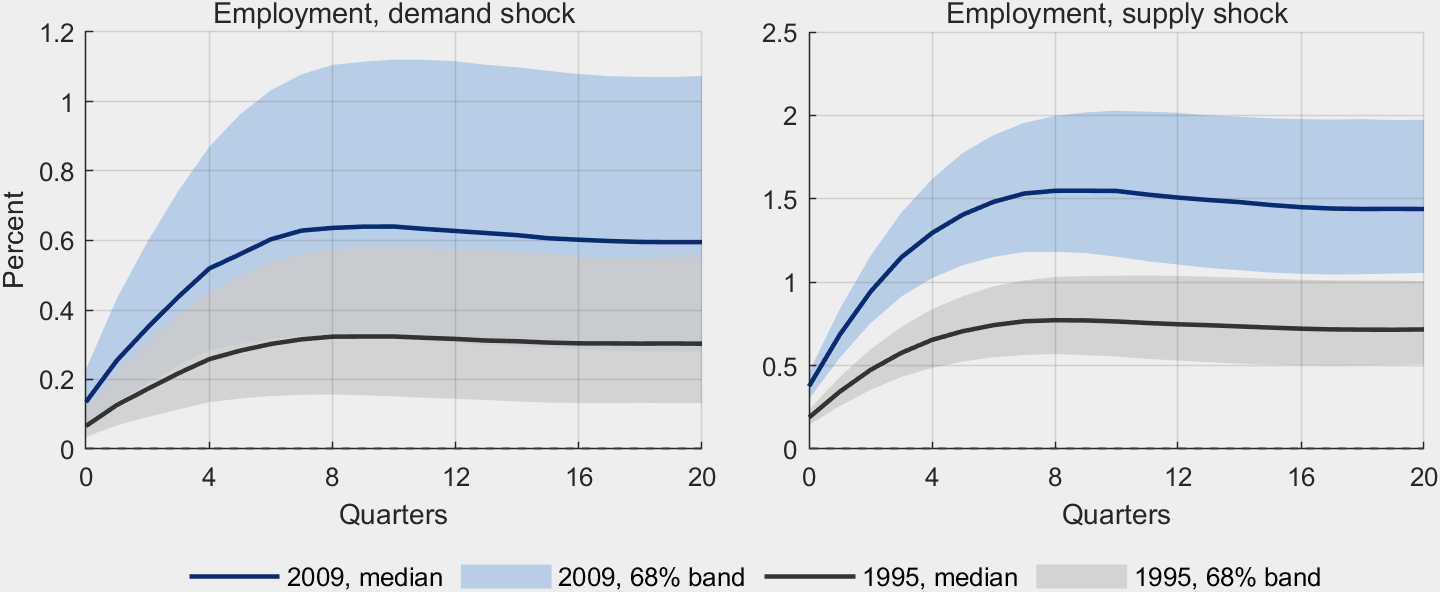
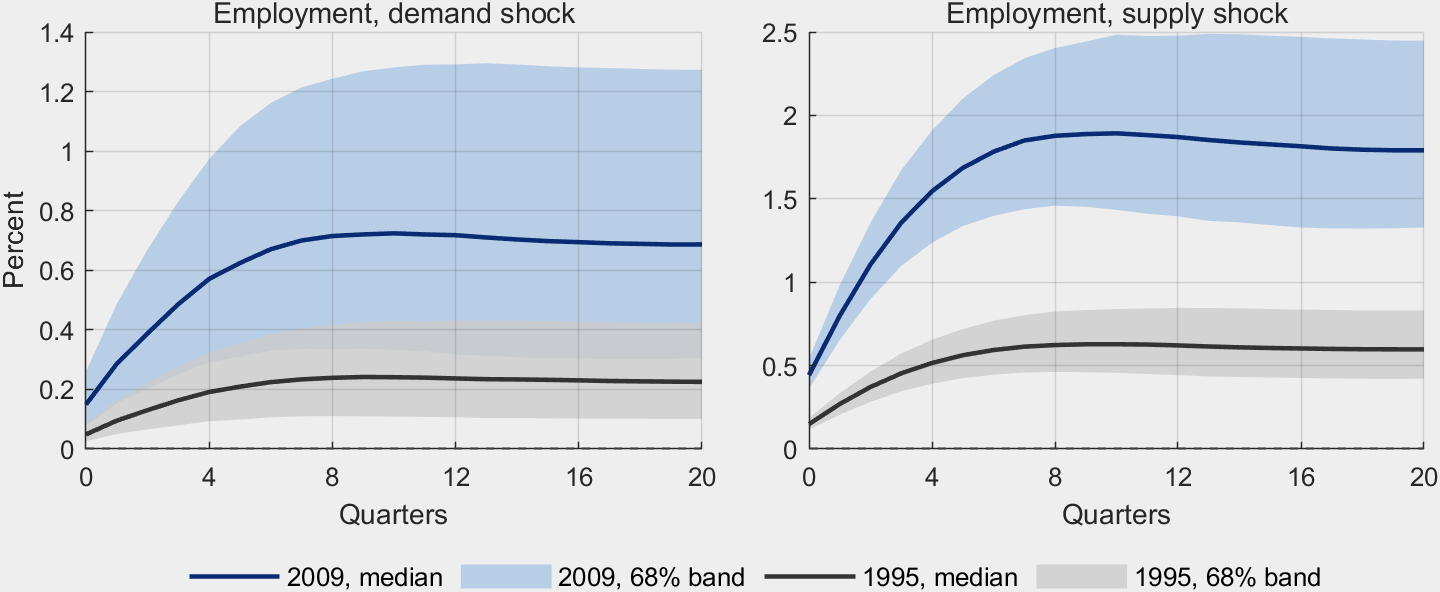
Blog BH15: re-estimate with corrected Kim-Shephard-Chib mixture means
Regenerate the seven figures and update every number that comes from the
stochastic-volatility model (volatility path, elasticities, decompositions,
responses, state dependence, residual diagnostics, convergence).

diff --git a/_posts/2026-10-03-stochastic-volatility-baumeister-hamilton.md b/_posts/2026-10-03-stochastic-volatility-baumeister-hamilton.md
@@ -1,6 +1,6 @@
 ---
 title: "Stochastic volatility in the Baumeister–Hamilton SVAR"
-excerpt: "Adding a single common stochastic-volatility factor to the Baumeister–Hamilton (2015) structural VAR keeps its conjugate structure, given the volatility path. It brings no new identification and, on current US labor-market data, no gain in precision, but it measures the volatility path and makes the size of shocks depend on the state of the economy."
+excerpt: "Adding a single common stochastic-volatility factor to the Baumeister–Hamilton (2015) structural VAR keeps its conjugate structure, given the volatility path. It brings no new identification and, on current US labor-market data, leaves the posterior medians close to the homoskedastic ones, but it measures the volatility path and makes the size of shocks depend on the state of the economy."
 date: 2026-10-03
 written: 2026-06-05
 mathjax: true
@@ -15,7 +15,7 @@ The BH15 baseline is homoskedastic, yet time-varying volatility is one of the mo
 
 - Conditional on the volatility path, the conjugacy at the heart of BH15 survives unchanged.
 - A single common factor brings no new identifying information: identification still rests entirely on the set-identified model.
-- On US labor-market data for 1970–2019 it leaves the estimates and their precision essentially unchanged. What it adds is the volatility path itself: a one-standard-deviation shock in 2009 moves employment about twice as much as one in 1995.
+- On US labor-market data for 1970–2019 it leaves the posterior medians close to the homoskedastic ones, with a somewhat tighter posterior for the demand slope and wider bands for the wage responses. What it adds is the volatility path itself: a one-standard-deviation shock in 2009 moves employment about three times as much as one in 1995.
 </div>
 
 ## The model
@@ -60,77 +60,77 @@ The Gibbs sampler has four blocks:
 
 1. $$A \mid Y, H$$: random-walk Metropolis on the marginal posterior above, computed with the standardized data, with the random walk on $$\log(-\beta)$$ and $$\log \alpha$$.
 2. $$(b_i, d_{ii}) \mid A, H, Y$$: direct Normal–inverse-gamma draws, equation by equation.
-3. $$H \mid A, B, D, Y$$: the volatility path, using the Kim, Shephard and Chib (1998) mixture approximation and forward-filtering backward-sampling.
+3. $$H \mid A, B, D, Y$$: the volatility path, using the Kim, Shephard and Chib (1998) mixture approximation to $$\log \chi^2_1$$, which matches its mean $$E[\log \chi^2_1] \approx -1.27$$, and forward-filtering backward-sampling.
 4. $$(\phi, \sigma^2) \mid H$$: conjugate draws.
 
 Setting $$\sigma^2 \to 0$$ freezes $$h_t = 0$$ and recovers the homoskedastic BH15 sampler. Two practical details matter. The levels of $$h_t$$ and $$d_{ii}$$ are not separately identified (only $$d_{ii}\, e^{h_t}$$ is), so I recentre $$h_t$$ to mean zero at every iteration. Otherwise it drifts as $$\phi$$ approaches one. And the random walk for $$A$$ runs on $$\log(-\beta)$$ and $$\log \alpha$$, with the corresponding Jacobian, and its covariance is adapted during the burn-in (Haario, Saksman and Tamminen, 2001). Every proposal then satisfies the sign restrictions, and the chain explores the long right tail of $$\alpha$$, which lies against the restriction at zero and which a random walk in levels visits only rarely.
 
 ## Application: the US labor market
 
-I use the BH15 bivariate labor-market model: quarterly growth of real hourly compensation in the nonfarm business sector and of total nonfarm payroll employment, eight lags. Labor demand and supply shocks are separated by the BH15 prior, with a downward-sloping demand curve ($$\beta < 0$$) and an upward-sloping supply curve ($$\alpha > 0$$), plus a long-run restriction. The data are the current FRED vintage (series COMPRNFB and PAYEMS) and the sample is 1970:Q1–2019:Q4. It stops before 2020 because the COVID quarters are outliers of about fifteen standard deviations, which a Gaussian volatility process can only absorb by inflating $$\sigma^2$$ (Carriero, Clark, Marcellino and Mertens, 2024). Each model is estimated with four chains of 110,000 iterations from dispersed starting points, discarding the first 10,000. The split $$\hat{R}$$ is 1.00 for both slopes and the effective sample size of $$\alpha$$ exceeds 23,000.
+I use the BH15 bivariate labor-market model: quarterly growth of real hourly compensation in the nonfarm business sector and of total nonfarm payroll employment, eight lags. Labor demand and supply shocks are separated by the BH15 prior, with a downward-sloping demand curve ($$\beta < 0$$) and an upward-sloping supply curve ($$\alpha > 0$$), plus a long-run restriction. The data are the current FRED vintage (series COMPRNFB and PAYEMS) and the sample is 1970:Q1–2019:Q4. It stops before 2020 because the COVID quarters are outliers of more than fifteen standard deviations, which a Gaussian volatility process can only absorb by inflating $$\sigma^2$$ (Carriero, Clark, Marcellino and Mertens, 2024). Each model is estimated with four chains of 110,000 iterations from dispersed starting points, discarding the first 10,000. The split $$\hat{R}$$ is 1.00 for both slopes and the effective sample size of $$\alpha$$ exceeds 20,000.
 
 **The volatility factor.** The common factor recovers the main episodes of US macroeconomic volatility: the Great Inflation, the Great Moderation and the Great Recession (Figure 1).
 
 <figure>
-  <a href="/assets/blog/bh15-sv/volatility-factor.png?v=3"><img src="/assets/blog/bh15-sv/volatility-factor.png?v=3" alt="Posterior median, 68% and 90% bands of the common volatility factor, 1970 to 2019"></a>
-  <figcaption><strong>Figure 1. Common volatility factor</strong> \(e^{h_t/2}\), posterior median with 68% and 90% bands. Peaks of 1.41 in 1974:Q4 and 1.33 in 1980:Q2, below one from 1984 with a trough of 0.71 in 1996, a peak of 1.45 in 2008:Q4 and a second trough of 0.75 in 2017. Posterior means: \(\phi \approx 0.92\), \(\sigma^2 \approx 0.04\).</figcaption>
+  <a href="/assets/blog/bh15-sv/volatility-factor.png?v=4"><img src="/assets/blog/bh15-sv/volatility-factor.png?v=4" alt="Posterior median, 68% and 90% bands of the common volatility factor, 1970 to 2019"></a>
+  <figcaption><strong>Figure 1. Common volatility factor</strong> \(e^{h_t/2}\), posterior median with 68% and 90% bands. Peaks of 1.76 in 1974:Q4 and 1.68 in 1980:Q2, mostly below one from 1984 with a trough of 0.57 in 1996, a peak of 1.87 in 2008:Q4 and a second trough of 0.60 in 2017. Posterior means: \(\phi \approx 0.92\), \(\sigma^2 \approx 0.08\).</figcaption>
 </figure>
 
-**Elasticities.** The posteriors of both slopes are almost the same in the two models (Figure 2). The supply slope is concentrated around 0.1, well below the centre of its prior, with a long right tail that is somewhat longer with stochastic volatility: the upper end of the 95% interval is 0.74 against 0.61. The posterior of the demand slope overlaps heavily with its prior, as in BH15.
+**Elasticities.** The posteriors of both slopes are close in the two models (Figure 2). The supply slope is concentrated around 0.1, well below the centre of its prior, with a long right tail: the upper end of the 95% interval is 0.63 with stochastic volatility and 0.61 without. The posterior of the demand slope overlaps heavily with its prior, as in BH15. With stochastic volatility it is somewhat tighter and slightly closer to zero, and its 95% interval is about 12% narrower.
 
 | | Demand slope $$\beta$$, no SV | Demand slope $$\beta$$, SV | Supply slope $$\alpha$$, no SV | Supply slope $$\alpha$$, SV |
 |---|---|---|---|---|
-| Median | −1.12 | −1.03 | 0.13 | 0.11 |
-| Std. deviation | 0.94 | 0.93 | 0.19 | 0.23 |
-| 95% interval | [−3.48, −0.22] | [−3.22, −0.15] | [0.03, 0.61] | [0.02, 0.74] |
+| Median | −1.12 | −0.99 | 0.13 | 0.10 |
+| Std. deviation | 0.94 | 0.80 | 0.19 | 0.21 |
+| 95% interval | [−3.48, −0.22] | [−3.02, −0.16] | [0.03, 0.61] | [0.02, 0.63] |
 
 <figure>
-  <a href="/assets/blog/bh15-sv/elasticity-posteriors.png?v=3"><img src="/assets/blog/bh15-sv/elasticity-posteriors.png?v=3" alt="Posterior histograms of the demand and supply slopes with and without stochastic volatility, and their prior"></a>
+  <a href="/assets/blog/bh15-sv/elasticity-posteriors.png?v=4"><img src="/assets/blog/bh15-sv/elasticity-posteriors.png?v=4" alt="Posterior histograms of the demand and supply slopes with and without stochastic volatility, and their prior"></a>
   <figcaption><strong>Figure 2. Posterior histograms of the elasticities</strong>, with and without stochastic volatility, and the prior density, the sign-truncated Student-t of BH15. Each histogram uses 400,000 draws.</figcaption>
 </figure>
 
-The variance-decomposition shares at a four-year horizon do not move either. Wage variance is about 88% demand-driven in both models and employment variance about 86% supply-driven with stochastic volatility and 84% without. The 68% bands are slightly wider with stochastic volatility.
+The variance-decomposition shares at a four-year horizon barely move. Wage variance is 89% demand-driven with stochastic volatility and 88% without, and employment variance is 87% supply-driven with stochastic volatility and 84% without. The 68% bands are about as wide in the two models.
 
-**Historical decomposition.** Figures 3 and 4 show the contribution of each shock to the eight-quarter growth of employment and wages in the model with stochastic volatility. Summing the contributions over an eight-quarter window, rather than cumulating them from 1970, keeps their uncertainty from accumulating over the sample. Supply shocks account for the falls in employment growth around every recession, with troughs of about −2.5 percentage points in 1975, −4.5 in 1983, −4.1 in 1992, −4.4 in 2002 and −8.1 at the end of 2009. Demand shocks move employment growth by at most about two points. The homoskedastic medians, not shown, differ from these by less than 0.8 points at any date, because the realized structural shocks are the same residuals in both models and the posteriors of $$A$$ and $$B$$ nearly coincide.
+**Historical decomposition.** Figures 3 and 4 show the contribution of each shock to the eight-quarter growth of employment and wages in the model with stochastic volatility. Summing the contributions over an eight-quarter window, rather than cumulating them from 1970, keeps their uncertainty from accumulating over the sample. Supply shocks account for the falls in employment growth around every recession, with troughs of about −2.8 percentage points in 1975, −4.8 in 1983, −4.3 in 1992, −4.7 in 2002 and −8.4 at the end of 2009. Demand shocks move employment growth by less than two points. The homoskedastic medians, not shown, differ from these by about one point at most, because the realized structural shocks are the same residuals in both models and the posteriors of $$A$$ and $$B$$ are close.
 
 <figure>
-  <a href="/assets/blog/bh15-sv/historical-decomposition.png?v=3"><img src="/assets/blog/bh15-sv/historical-decomposition.png?v=3" alt="Contributions of demand and supply shocks to eight-quarter employment growth, model with stochastic volatility"></a>
+  <a href="/assets/blog/bh15-sv/historical-decomposition.png?v=4"><img src="/assets/blog/bh15-sv/historical-decomposition.png?v=4" alt="Contributions of demand and supply shocks to eight-quarter employment growth, model with stochastic volatility"></a>
   <figcaption><strong>Figure 3. Historical decomposition of employment</strong>: contributions of demand shocks (left) and supply shocks (right) to eight-quarter employment growth, model with stochastic volatility. Posterior median with 68% and 90% bands.</figcaption>
 </figure>
 
-Wage growth is driven mostly by demand shocks, which subtract about 5.3 points in 1975 and 6.4 in 2009 and add about 5.0 in 1999 (Figure 4). Around recessions supply shocks push wages up, by about 3.1 points in 2009, the mirror image of their negative contribution to employment.
+Wage growth is driven mostly by demand shocks, which subtract about 5.7 points in 1975 and 6.7 in 2009 and add about 5.0 in 1999 (Figure 4). Around recessions supply shocks push wages up, by about 3.4 points in 2009, the mirror image of their negative contribution to employment.
 
 <figure>
-  <a href="/assets/blog/bh15-sv/historical-decomposition-wages.png?v=3"><img src="/assets/blog/bh15-sv/historical-decomposition-wages.png?v=3" alt="Contributions of demand and supply shocks to eight-quarter wage growth, model with stochastic volatility"></a>
+  <a href="/assets/blog/bh15-sv/historical-decomposition-wages.png?v=4"><img src="/assets/blog/bh15-sv/historical-decomposition-wages.png?v=4" alt="Contributions of demand and supply shocks to eight-quarter wage growth, model with stochastic volatility"></a>
   <figcaption><strong>Figure 4. Historical decomposition of wages</strong>: contributions of demand shocks (left) and supply shocks (right) to eight-quarter wage growth, model with stochastic volatility. Posterior median with 68% and 90% bands.</figcaption>
 </figure>
 
-**Unit responses.** On impact, the response to a unit structural shock depends only on $$A$$, so the two models differ as much as their posteriors of $$A$$ do: the impact response of wages to a demand shock is 0.87 with stochastic volatility and 0.78 without (Figure 5). At longer horizons the responses also depend on the lag coefficients, which stochastic volatility estimates by GLS. The shapes and signs are the same and the bands overlap. For wages the stochastic-volatility bands are wider.
+**Unit responses.** On impact, the response to a unit structural shock depends only on $$A$$, so the two models differ as much as their posteriors of $$A$$ do: the impact response of wages to a demand shock is 0.90 with stochastic volatility and 0.78 without (Figure 5). At longer horizons the responses also depend on the lag coefficients, which stochastic volatility estimates by GLS. The shapes and signs are the same and the bands overlap. For wages the stochastic-volatility bands are wider.
 
 <figure>
-  <a href="/assets/blog/bh15-sv/unit-irfs.png?v=3"><img src="/assets/blog/bh15-sv/unit-irfs.png?v=3" alt="Responses of wages and employment to unit demand and supply shocks, with and without stochastic volatility"></a>
+  <a href="/assets/blog/bh15-sv/unit-irfs.png?v=4"><img src="/assets/blog/bh15-sv/unit-irfs.png?v=4" alt="Responses of wages and employment to unit demand and supply shocks, with and without stochastic volatility"></a>
   <figcaption><strong>Figure 5. Responses to a unit structural shock</strong>, cumulated to levels, with and without stochastic volatility. Bands are 68% intervals.</figcaption>
 </figure>
 
-**State dependence.** A one-standard-deviation shock has size $$\sqrt{d_{ii}}\, e^{h_t/2}$$, so its impulse response is the unit response scaled by the volatility of the moment. A shock in 2009 moves employment about twice as much as one in 1995, the ratio of the median volatility factor in the two years, 1.45 against 0.72 (Figure 6). The homoskedastic model has a single one-standard-deviation response.
+**State dependence.** A one-standard-deviation shock has size $$\sqrt{d_{ii}}\, e^{h_t/2}$$, so its impulse response is the unit response scaled by the volatility of the moment. A shock in 2009 moves employment about three times as much as one in 1995, the ratio of the median volatility factor in the two years, 1.81 against 0.61 (Figure 6). The homoskedastic model has a single one-standard-deviation response.
 
 <figure>
-  <a href="/assets/blog/bh15-sv/one-sd-employment.png?v=3"><img src="/assets/blog/bh15-sv/one-sd-employment.png?v=3" alt="Employment responses to one-standard-deviation demand and supply shocks in 2009 and in 1995"></a>
+  <a href="/assets/blog/bh15-sv/one-sd-employment.png?v=4"><img src="/assets/blog/bh15-sv/one-sd-employment.png?v=4" alt="Employment responses to one-standard-deviation demand and supply shocks in 2009 and in 1995"></a>
   <figcaption><strong>Figure 6. One-standard-deviation responses of employment</strong> to a demand shock (left) and a supply shock (right), dated 2009 (high volatility) and 1995 (low volatility). Bands are 68% intervals.</figcaption>
 </figure>
 
-**Where the volatility lives.** Figure 7 shows the autocorrelations of the squared standardized shocks, computed draw by draw. Under homoskedasticity both squared shocks are autocorrelated at the first lag, the hallmark of volatility clustering, more strongly for demand: the posterior median of the first-order autocorrelation is 0.26 for demand and 0.22 for supply, and the Ljung–Box test rejects the null of no autocorrelation up to lag 20, with median p-values below 0.001 and about 0.01. After standardizing by the volatility factor the first-order autocorrelations fall to 0.14 and 0.17, at the edge of the $$\pm 1.96/\sqrt{T}$$ bounds, and the median p-values rise to 0.09 and 0.13, so the null is no longer rejected at the 5% level. The spikes at lags 11 and 12 of the demand shock fall inside the bounds. The common factor removes most of the clustering in both shocks but not all of it. More lags in the VAR would not change this: the shocks themselves, not squared, show no significant autocorrelation.
+**Where the volatility lives.** Figure 7 shows the autocorrelations of the squared standardized shocks, computed draw by draw. Under homoskedasticity both squared shocks are autocorrelated at the first lag, the hallmark of volatility clustering, more strongly for demand: the posterior median of the first-order autocorrelation is 0.26 for demand and 0.22 for supply, and the Ljung–Box test rejects the null of no autocorrelation up to lag 20, with median p-values below 0.001 and about 0.01. After standardizing by the volatility factor the first-order autocorrelations fall to 0.10 and 0.12, inside the $$\pm 1.96/\sqrt{T}$$ bounds, and the median p-values rise to 0.18 and 0.30, so the null is no longer rejected at the 5% level. The spikes at lags 11 and 12 of the demand shock also fall inside the bounds. With the common factor no posterior median of the autocorrelations or partial autocorrelations lies outside the bounds at any lag up to 20.
 
 <figure>
-  <a href="/assets/blog/bh15-sv/acf-squared-shocks.png?v=3"><img src="/assets/blog/bh15-sv/acf-squared-shocks.png?v=3" alt="Autocorrelation and partial autocorrelation of the squared demand and supply shocks, with and without stochastic volatility"></a>
-  <figcaption><strong>Figure 7. Autocorrelation (left) and partial autocorrelation (right) of the squared structural shocks</strong>, for the demand shock (top) and the supply shock (bottom), with and without stochastic volatility. Posterior medians and 68% intervals across draws. The grey band marks the \(\pm 1.96/\sqrt{T}\) bounds. Median p-values of the Ljung–Box test of no autocorrelation up to lag 20: demand below 0.001 without and 0.09 with stochastic volatility, supply 0.01 and 0.13.</figcaption>
+  <a href="/assets/blog/bh15-sv/acf-squared-shocks.png?v=4"><img src="/assets/blog/bh15-sv/acf-squared-shocks.png?v=4" alt="Autocorrelation and partial autocorrelation of the squared demand and supply shocks, with and without stochastic volatility"></a>
+  <figcaption><strong>Figure 7. Autocorrelation (left) and partial autocorrelation (right) of the squared structural shocks</strong>, for the demand shock (top) and the supply shock (bottom), with and without stochastic volatility. Posterior medians and 68% intervals across draws. The grey band marks the \(\pm 1.96/\sqrt{T}\) bounds. Median p-values of the Ljung–Box test of no autocorrelation up to lag 20: demand below 0.001 without and 0.18 with stochastic volatility, supply 0.01 and 0.30.</figcaption>
 </figure>
 
 ## Takeaways
 
-A single common volatility factor is a cheap addition to BH15. Given the volatility path the conjugate sampler is unchanged, and one extra block delivers the volatility. It does not relax the identification problem, and it leaves the elasticities, the variance decomposition and the historical decomposition essentially unchanged. What it adds is a measured volatility path and shock sizes that move with the state of the economy.
+A single common volatility factor is a cheap addition to BH15. Given the volatility path the conjugate sampler is unchanged, and one extra block delivers the volatility. It does not relax the identification problem, and the posterior medians of the elasticities, the variance decomposition and the historical decomposition stay close to the homoskedastic ones. What it adds is a measured volatility path and shock sizes that move with the state of the economy.
 
-It also leaves something on the table. Part of the clustering survives the common factor in both shocks, so a shock-specific volatility $$h_{it}$$ would let relative variances move over time. That would deliver identification through heteroskedasticity on top of the BH15 prior. Extending the sample beyond 2019 requires, in addition, a treatment of the COVID outliers.
+It also leaves something on the table. With a single factor the relative variances of the shocks are fixed by construction. A shock-specific volatility $$h_{it}$$ would let them move over time, which would deliver identification through heteroskedasticity on top of the BH15 prior. Extending the sample beyond 2019 requires, in addition, a treatment of the COVID outliers.
 
 [Code](https://github.com/jorgearenasamoros/bh15-stochastic-volatility){: .btn .btn--primary}
 
